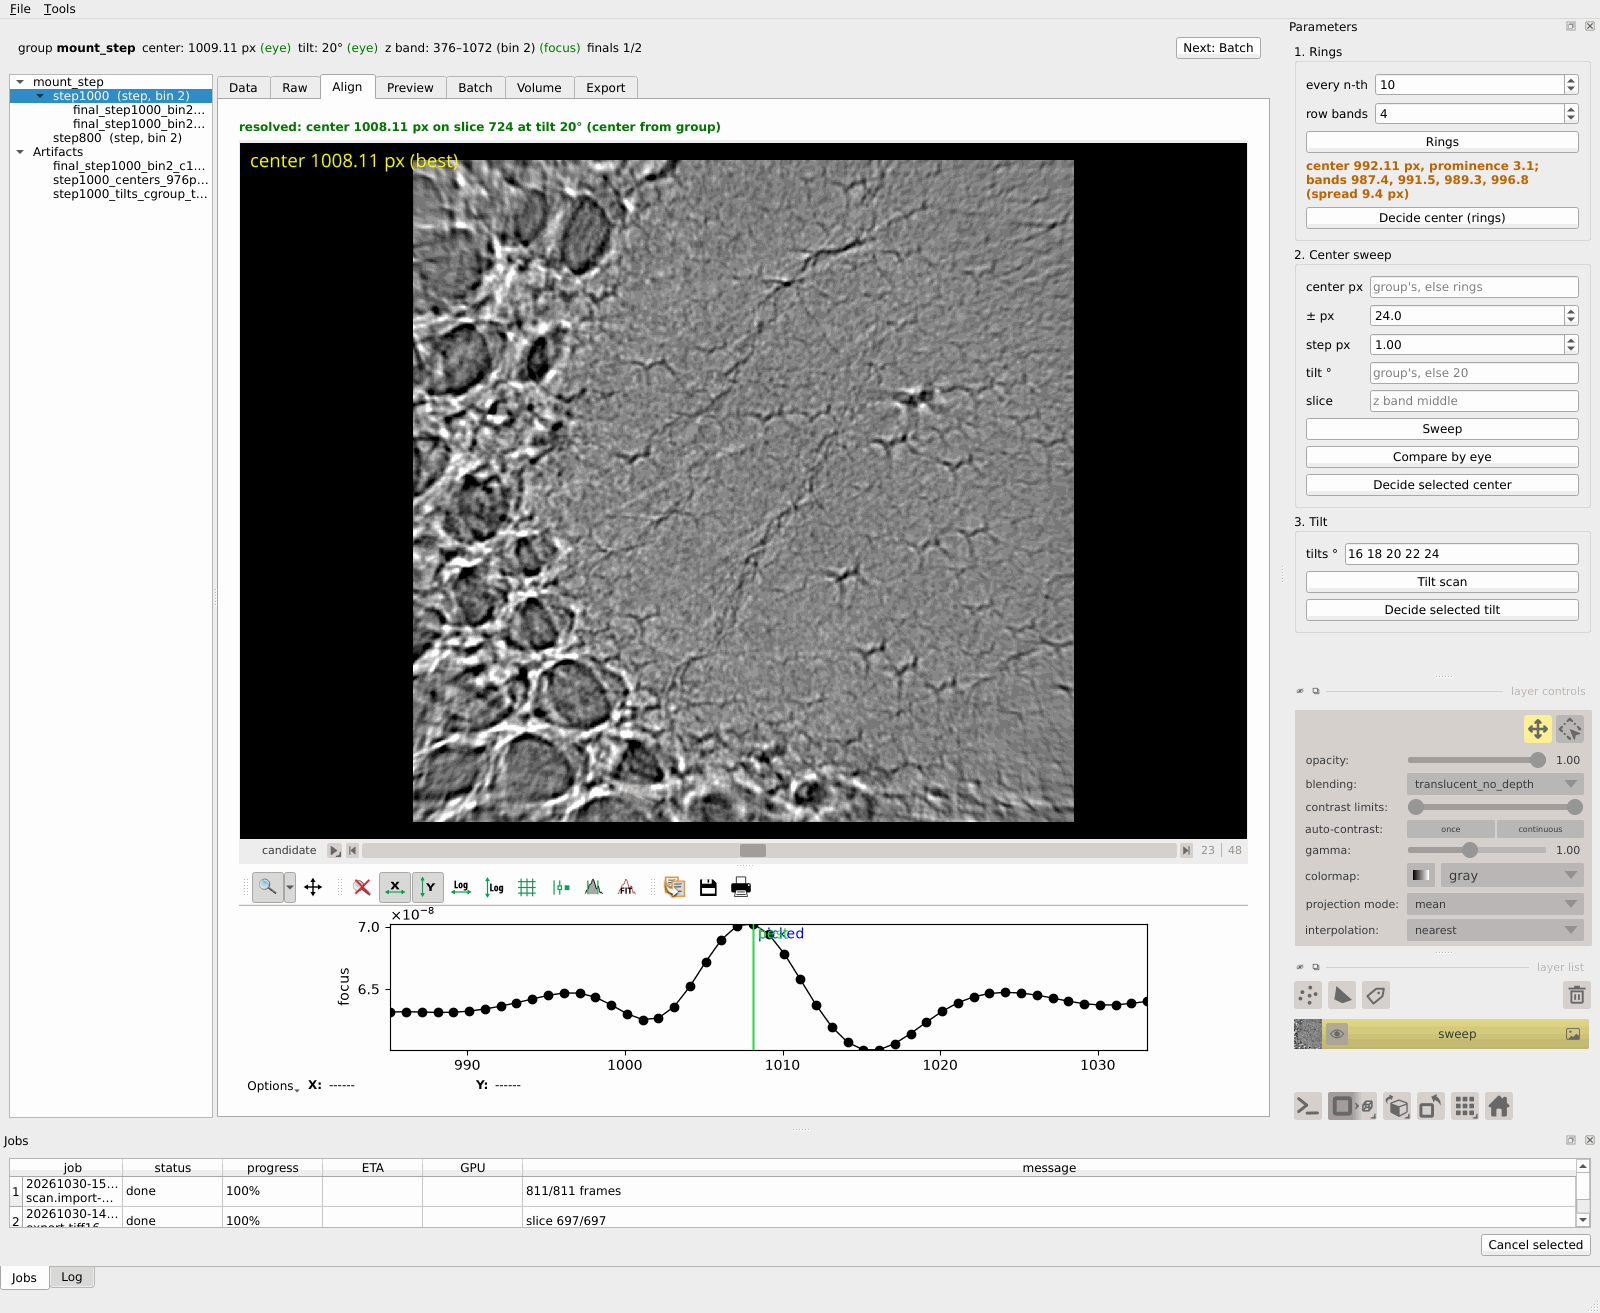
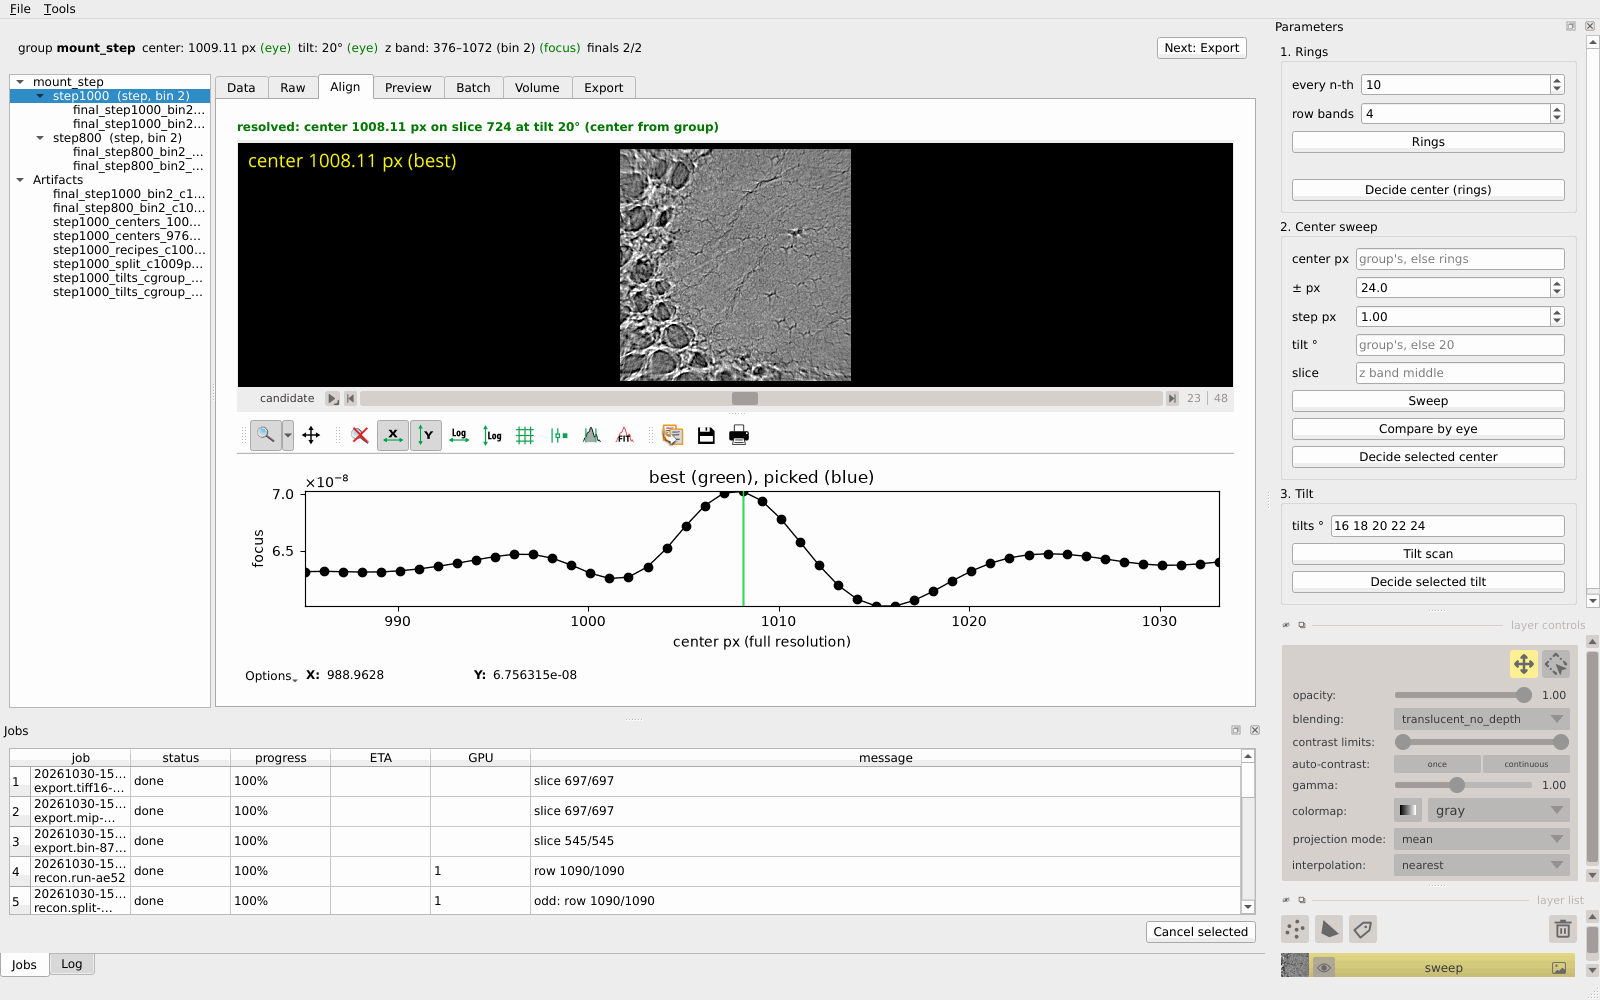
gui: fit the graphs' margins to their text (Tab.graph)
silx's margins are fixed fractions of a graph, so a short one clipped its
title and ×10ⁿ offset and a narrow MIP its y tick labels. Its tight layout
fits them to the text; Tab.graph gives every graph one least size in place
of the per-tab heights, which raises the window's least size to 1342×903.

diff --git a/tests/test_gui.py b/tests/test_gui.py
@@ -462,8 +462,43 @@ def test_a_graphs_markers_are_named_in_its_title_not_on_the_plot_where_close_one
     assert texts == {at.plot: [""] * 3, vt.plot: [""] * 3}
     assert at.plot.getGraphTitle() == "best (green), rivals (orange), picked (blue)"
     assert vt.plot.getGraphTitle() == (
-        "suggested band [70, 149] (gray); peak (gray line), first and last slice (blue lines, draggable)"
+        "suggested band [70, 149] (gray)\npeak (gray line), first and last slice (blue lines, draggable)"
     )
+
+
+def test_a_graph_at_the_windows_least_size_draws_all_its_text_and_a_plot(app, win):
+    from lamino_pal.gui.tabs.align import PICKED, TILT_FOCUS
+    from lamino_pal.ops.export import WindowResult
+
+    rng = np.random.default_rng(0)
+    win.resize(1, 1)
+    at, _ = _ambiguous_sweep(app, win)
+    # Values that take a ×10ⁿ offset, under the longest title.
+    at.plot.addCurve([63, 64, 65, 66], [6.5e-8, 6.0e-8, 6.6e-8, 6.2e-8], legend="focus")
+    at.plot.setGraphTitle(f"{TILT_FOCUS}; {PICKED}")
+    vt = win.tabs["Volume"]
+    f = rng.random(1090) * 1e-7
+    r = FocusResult(shape=(1090, 8, 8), step=1, peak_z=397, band=(372, 1089), air=[(116, 371)], wrap=(0, 115))
+    vt._show_focus(r.with_arrays(focus=f))
+    et = win.tabs["Export"]
+    hist = list((1e5 * np.exp(-np.linspace(-3, 3, 256) ** 2)).astype(int))
+    et._show_window(WindowResult(z=(372, 1089), window=(-1.2e-4, 3.4e-4), span=(-3.5e-4, 5.7e-4), hist=hist))
+    for k, shape in (("z", (1090, 1024)), ("y", (717, 1024)), ("x", (717, 1090))):
+        et.mips[k].addImage(rng.random(shape, dtype="f4"), legend="mip", resetzoom=True)
+    pt = win.tabs["Preview"]
+    pt.frc.addCurve(np.arange(256) / 512, np.linspace(1, 0, 256), legend="FRC")
+    pt.frc.show()
+    for tab in win.tabs.values():
+        win.show_tab(tab.NAME)
+        pump(app, 0.2)
+        for name, g in tab.graphs.items():
+            b = g.getBackend()
+            b.fig.canvas.draw()
+            renderer = b.fig.canvas.get_renderer()
+            text, page = b.fig.get_tightbbox(renderer), b.fig.bbox_inches.padded(0.01)
+            assert page.contains(*text.min) and page.contains(*text.max), name
+            plot = b.ax.get_window_extent(renderer)
+            assert min(plot.width, plot.height) >= 80, name
 
 
 def test_a_tilt_scan_shows_each_tilts_xz_plane_over_its_depth_under_its_slice(app, win):
@@ -658,7 +693,7 @@ def test_the_focus_curve_shades_the_band_air_and_z_wrap(app, win):
     shapes = {k: (v.min(), v.max()) for k, v in x.items()}
     assert shapes == {"suggested band 0": (70, 149), "air 0": (30, 69), "z wrap 0": (0, 29)}
     assert vt.plot.getGraphTitle().startswith(
-        "suggested band [70, 149] (gray), air [30, 69] (blue), z wrap [0, 29] (orange); "
+        "suggested band [70, 149] (gray), air [30, 69] (blue), z wrap [0, 29] (orange)\n"
     )
 
 

diff --git a/python/lamino_pal/gui/tabs/base.py b/python/lamino_pal/gui/tabs/base.py
@@ -6,6 +6,7 @@ from __future__ import annotations
 
 from typing import Any, Callable
 
+from silx import config
 from silx.gui import qt
 from silx.gui.plot import Plot1D, PlotWidget
 
@@ -17,6 +18,14 @@ from lamino_pal.ops.registry import Result
 from lamino_pal.project import Method
 
 GOOD, WARN, BAD = "#070", "#b60", "#b00"
+
+# silx's margins are fixed fractions of a graph, which in a short one clip its
+# title and tick labels; its tight layout, read as a graph is made, fits them
+# to the text.
+config._MPL_TIGHT_LAYOUT = True
+# A graph's least size: its toolbar, position bar and colorbar, two lines of
+# title, its ticks and labels, and a plot 80 px or more each way.
+GRAPH_SIZE = (300, 270)
 
 
 def badge(label: qt.QLabel, text: str, color: str | None = None) -> None:
@@ -84,6 +93,7 @@ class Tab(qt.QWidget):
     def graph(self, title: str, cls: type[PlotWidget] = Plot1D) -> PlotWidget:
         """A graph of this tab, named `title` to an agent."""
         p = cls()
+        p.setMinimumSize(*GRAPH_SIZE)
         self.graphs[title] = p
         return p
 

diff --git a/python/lamino_pal/gui/tabs/volume.py b/python/lamino_pal/gui/tabs/volume.py
@@ -62,7 +62,6 @@ class VolumeTab(Tab):
         self.info = qt.QLabel(wordWrap=True)
         self.fov = qt.QLabel(wordWrap=True)
         self.plot = self.graph("focus by z")
-        self.plot.setMinimumHeight(170)
         self.plot.sigPlotSignal.connect(self._marker_moved)
         aux = qt.QSplitter(qt.Qt.Vertical)
         aux.addWidget(self.views["y"])
@@ -261,7 +260,8 @@ class VolumeTab(Tab):
         # The markers named here: silx writes a marker's text at the plot's
         # top, where z0's and the peak's overlap.
         marks = "peak (gray line), first and last slice (blue lines, draggable)"
-        self.plot.setGraphTitle("; ".join(filter(None, (figures.shades_key(spans), marks))))
+        # Two lines: on one they are wider than the graph.
+        self.plot.setGraphTitle("\n".join(filter(None, (figures.shades_key(spans), marks))))
         f = r.arrays["focus"]
         top = max(f, default=0.0)
         for k, v in spans.items():

diff --git a/python/lamino_pal/gui/tabs/align.py b/python/lamino_pal/gui/tabs/align.py
@@ -38,7 +38,6 @@ class AlignTab(Tab):
         super().__init__(win)
         self.view = self.viewer("align")
         self.plot = self.graph("focus")
-        self.plot.setMinimumHeight(180)
         self.plot.sigPlotSignal.connect(self._clicked)
         self.view.model.mouse_drag_callbacks.append(self._press)
         self.view.model.dims.events.current_step.connect(self._stepped)

diff --git a/python/lamino_pal/gui/tabs/export.py b/python/lamino_pal/gui/tabs/export.py
@@ -29,7 +29,6 @@ class ExportTab(Tab):
         super().__init__(win)
         self.info = qt.QLabel(wordWrap=True)
         self.hist = self.graph("histogram")
-        self.hist.setMinimumHeight(180)
         self.hist.getXAxis().setLabel("value")
         self.hist.getYAxis().setLabel("voxels")
         self.mips = {}

diff --git a/python/lamino_pal/gui/tabs/preview.py b/python/lamino_pal/gui/tabs/preview.py
@@ -58,7 +58,6 @@ class PreviewTab(Tab):
         self.cnr.itemSelectionChanged.connect(self._variant)
         self.cnr.hide()
         self.frc = self.graph("FRC")
-        self.frc.setMinimumHeight(160)
         self.frc.hide()
         layout = qt.QVBoxLayout(self)
         layout.addWidget(self.info)
